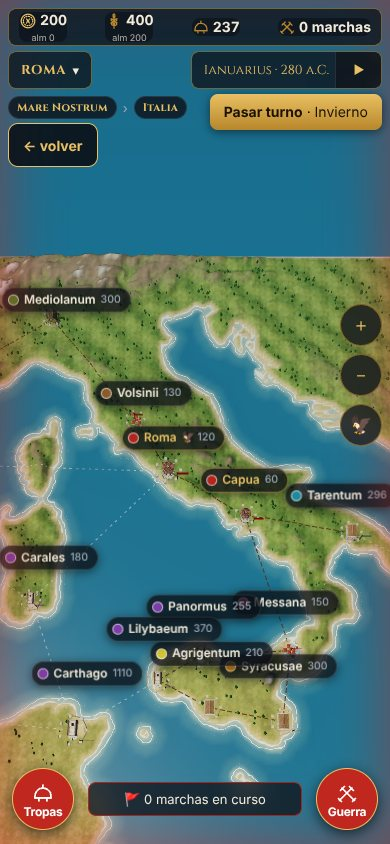
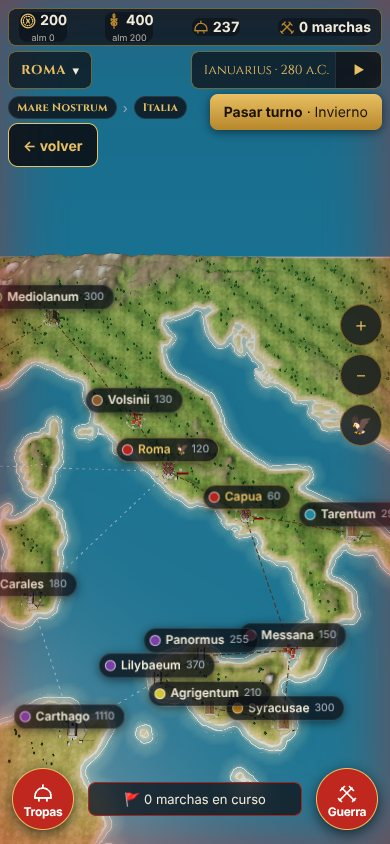
C6: nombres de zona dentro de la pantalla; parte, tablero, bitácora y capturas
Claude-Session: https://claude.ai/code/session_01QiKC369iQW21XMsXa35BXX

diff --git a/js/gfx/map3d.js b/js/gfx/map3d.js
@@ -334,6 +334,9 @@ export class MapView3D {
     // los nombres no se pisan: si dos se solapan en pantalla, el de abajo baja lo justo
     const vis = Object.values(st.zEls).filter(e => e.style.display !== 'none').map(e => ({ e: e, r: e.getBoundingClientRect() })).sort((p, q) => p.r.top - q.r.top), hechos = [];
     for (const o of vis) { let dy = 0; for (const q of hechos) if (o.r.left < q.right && o.r.right > q.left && o.r.top + dy < q.bottom && o.r.bottom + dy > q.top) dy = q.bottom - o.r.top + 3; if (dy) o.e.style.transform += ' translateY(' + dy.toFixed(0) + 'px)'; hechos.push({ left: o.r.left, right: o.r.right, top: o.r.top + dy, bottom: o.r.bottom + dy }); }
+    // y no se salen por los lados ni quedan bajo los botones de zoom de la derecha
+    const caja = this.labels.getBoundingClientRect(), izq = caja.left + 6, der = caja.right - 62;
+    for (const o of vis) { const r = o.e.getBoundingClientRect(); let dx = 0; if (r.left < izq) dx = izq - r.left; else if (r.right > der) dx = der - r.right; if (dx) o.e.style.transform += ' translateX(' + dx.toFixed(0) + 'px)'; }
   }
 
   /* Centra y acerca la cámara según la ficha de la región (lon, lat, zoom) */

diff --git a/gobierno/partes/2026-11-12-C6.md b/gobierno/partes/2026-11-12-C6.md
@@ -1,0 +1,17 @@
+# Parte · C6 Mapa por escalones · 2026-11-12
+**Resultado**: hecho (versión mínima de P95).
+**Qué cambia para el jugador**:
+- En el mapa del Mediterráneo, con la cámara lejos, salen seis zonas en latín: Italia, Sicilia, Sardinia, Hispania, Graecia y Africa.
+- Al tocar una, la cámara se acerca a sus ciudades en 0,6 s y arriba sale «Mare Nostrum › Italia» con «← volver», que devuelve el encuadre exacto.
+- El pellizco sigue libre: si te alejas a mano, vuelves a Mare Nostrum.
+- En la campaña «Región de Italia» no sale nada de esto.
+**Archivos**: `js/data.js` (`D.ZONAS`, `D.zonaDe`), `js/registro.js` (6 fichas `zona`, licencia de juego en los límites), `js/gfx/map3d.js` (escalón, pila, animación, migas, nombres que no se pisan ni se salen), `css/style.css`, `sw.js` (v51), `test/sim.test.js`, `gobierno/jueces.mjs` (paso nuevo), `gobierno/maquetas/C6-capturas.mjs`. No toca `ui.js`, por CN4.
+**Cambio no pedido**: la distancia máxima de cámara pasa de 150 a 330 (con 150 el Mediterráneo no cabía en vertical) y la bruma escala con la distancia; hasta 150 se ve igual que antes.
+**Jueces**: APTO 19/19 (con el paso «Mapa por escalones»).
+**Cuentas**: presupuesto 0,9 M · gastado 5,64 M (+526 %, ALERTA) · constructor Sonnet 0,70 M (lo previsto) · director 4,93 M. El exceso es del director: una conversación de horas, con vídeo, plan de 44 tareas y cuadro, en la que cada paso relee todo. Próxima vez: una tarea, una sesión nueva y corta, como manda `plan-socialista`.
+**Queda pendiente**:
+- Mare Nostrum ocupa solo la franja central de la pantalla vertical. Graecia queda algo al oeste de Grecia para no tapar el zoom.
+- Al entrar en Italia aún se ve Sicilia.
+- No hay bordes de zona dibujados, ni la bajada a la ciudad 3D (C1).
+- Sin medir en móvil real.
+**Decide el usuario**: nada.

diff --git a/gobierno/TABLERO.md b/gobierno/TABLERO.md
@@ -163,7 +163,7 @@ Una tarea por sesión; CN1 a CN4 tocan `js/game.js` y `js/data.js`, así que van
 - ⬜ C3 Diplomacia sencilla (alianzas, tributos) e IA enemiga que también construye.
 - ⬜ C4 **Ríos, lagos y relieve variado en el mapa** (P92, ≈1 M): Po, Tíber, Ebro, Ródano, delta del Nilo y Danubio como cintas de agua sobre el relieve real; lagos; más tipos de terreno (llanura, estepa, desierto del Atlas). Después de J4 (si no, se regenera el marco dos veces). Alturas: `assets/mapa/generar-alturas.py`.
 - ⬜ C5 **Botón de mapamundi** (P94, aprobada 12/11, ≈0,6 M): un botón más en el mapa para ver el mundo entero de un vistazo, con las ciudades y los frentes. Después de J4 (el mapa grande por regiones). Toca `js/gfx/map3d.js` y la parte del mapa de `js/ui.js`.
-- ⬜ C6 **Mapa por escalones** (P95, aprobada 12/11; estudio `estudios/R20-niveles-de-mapa.md`): Mare Nostrum › región › ciudad. Tocar una región acerca la cámara a sus ciudades; migas arriba con «← volver» al encuadre exacto; el pellizco libre se queda. Versión mínima, sin bordes dibujados. Tras I6.
+- ✅ C6 **Mapa por escalones** (12/11, P95): seis zonas en latín en Mare Nostrum; tocar una acerca la cámara, migas y «← volver» al encuadre exacto. Parte `partes/2026-11-12-C6.md`.
 
 ## Carril H — Historia (ministerio de Adecuación Histórica)
 - ✅ H1 Auditoría histórica cotejada con los textos (11/11/2026): `gobierno/historia/H1-resumen.md`. Los 10 fallos se confirman, con matices.

diff --git a/gobierno/BITACORA.md b/gobierno/BITACORA.md
@@ -118,6 +118,8 @@ Regla: lo nuevo se apunta aquí; cuando el usuario lo aprueba, pasa al tablero. 
 ## Propuestas por aprobar
 
 
+0. **C6 hecha (12/11)**, en la rama `claude/c6-mapa-escalones` unida a la rama del juego; `main` puesta al día. Siguiente del mapa: J4 (más ciudades), que ya puede usar `D.ZONAS`; C1 (bajar a la ciudad 3D) completa los escalones.
+
 ## Encargo en curso (11/11/2026, noche)
 Rama única: `claude/roman-strategy-mobile-game-bx9oq2` (la que publica el juego). Cinco carriles a la vez, que no se pisan. Director y agentes en **Sonnet** (al usuario le queda poco Fable).
 - **Batallas** (`js/battle.js`, `js/gfx/battle3d.js`, lo de batalla en `js/ui.js`): A5c Arrastre y formaciones → A3 Combate que se ve → A4 Papeles de la infantería → A5b Terreno → A1 Formaciones de verdad → A2 Animaciones por fila → A6 Cámara, sonido y proyectiles → A8b Ajuste fino del ritmo.
